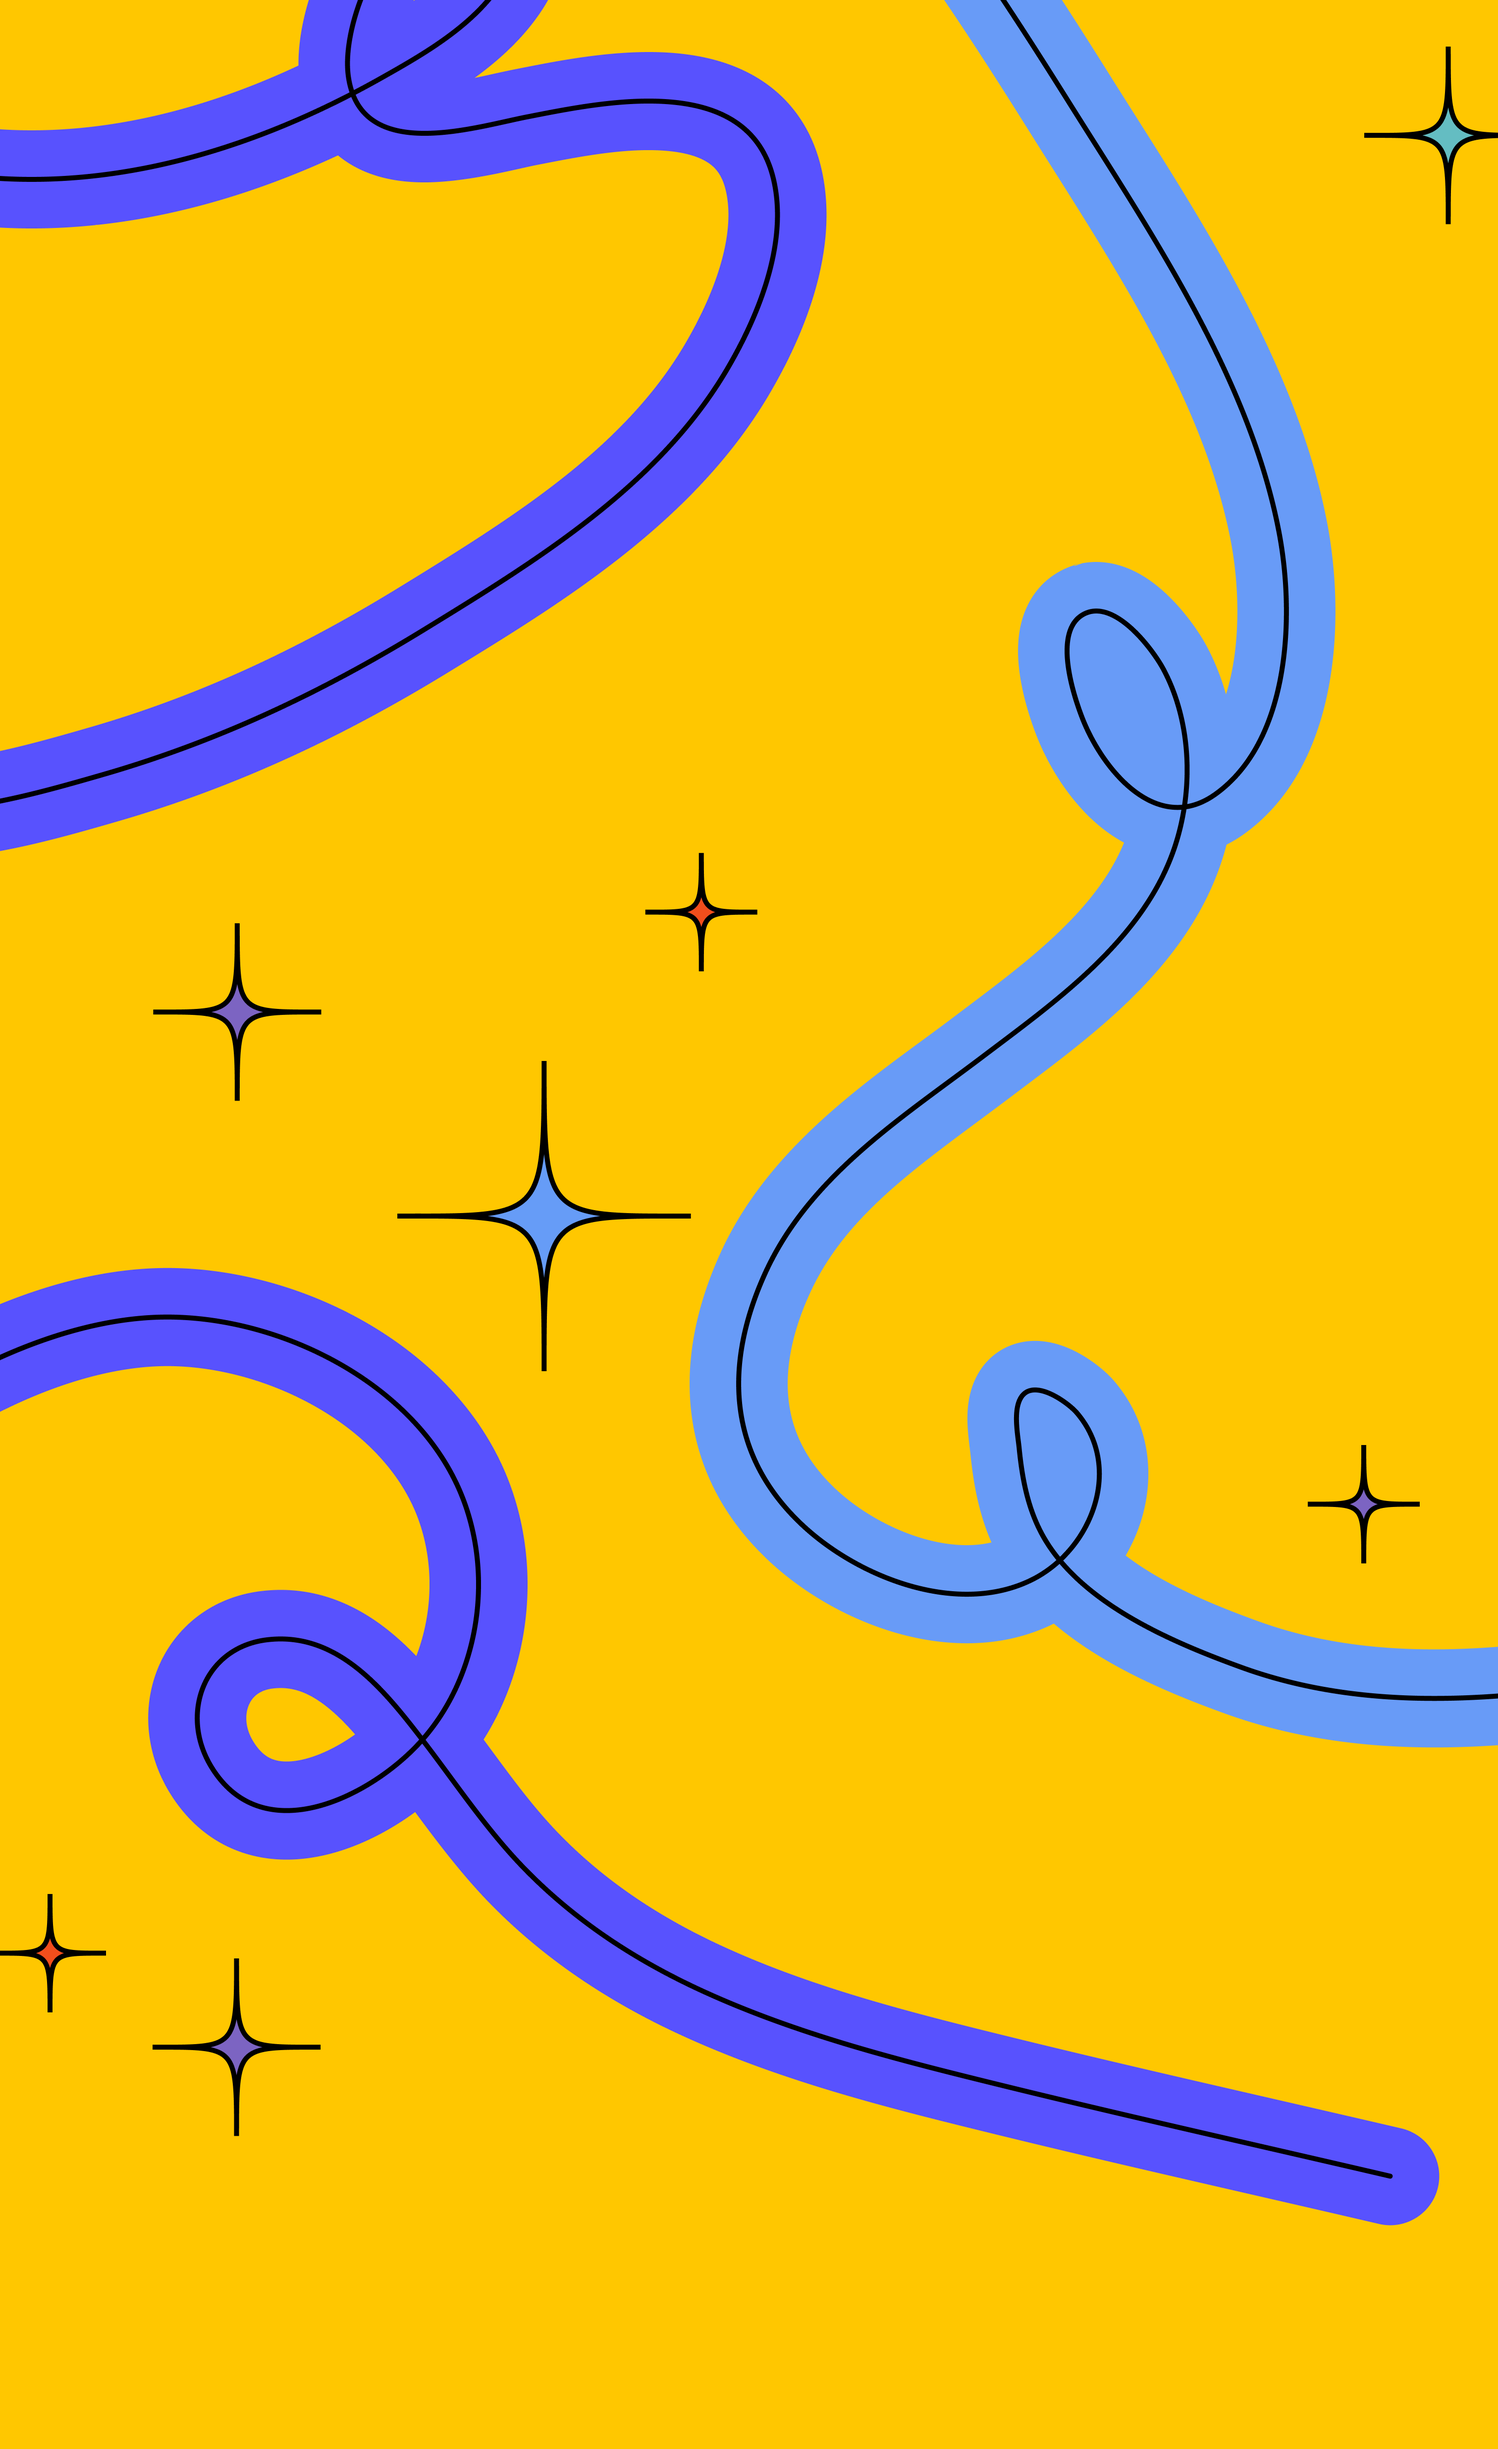
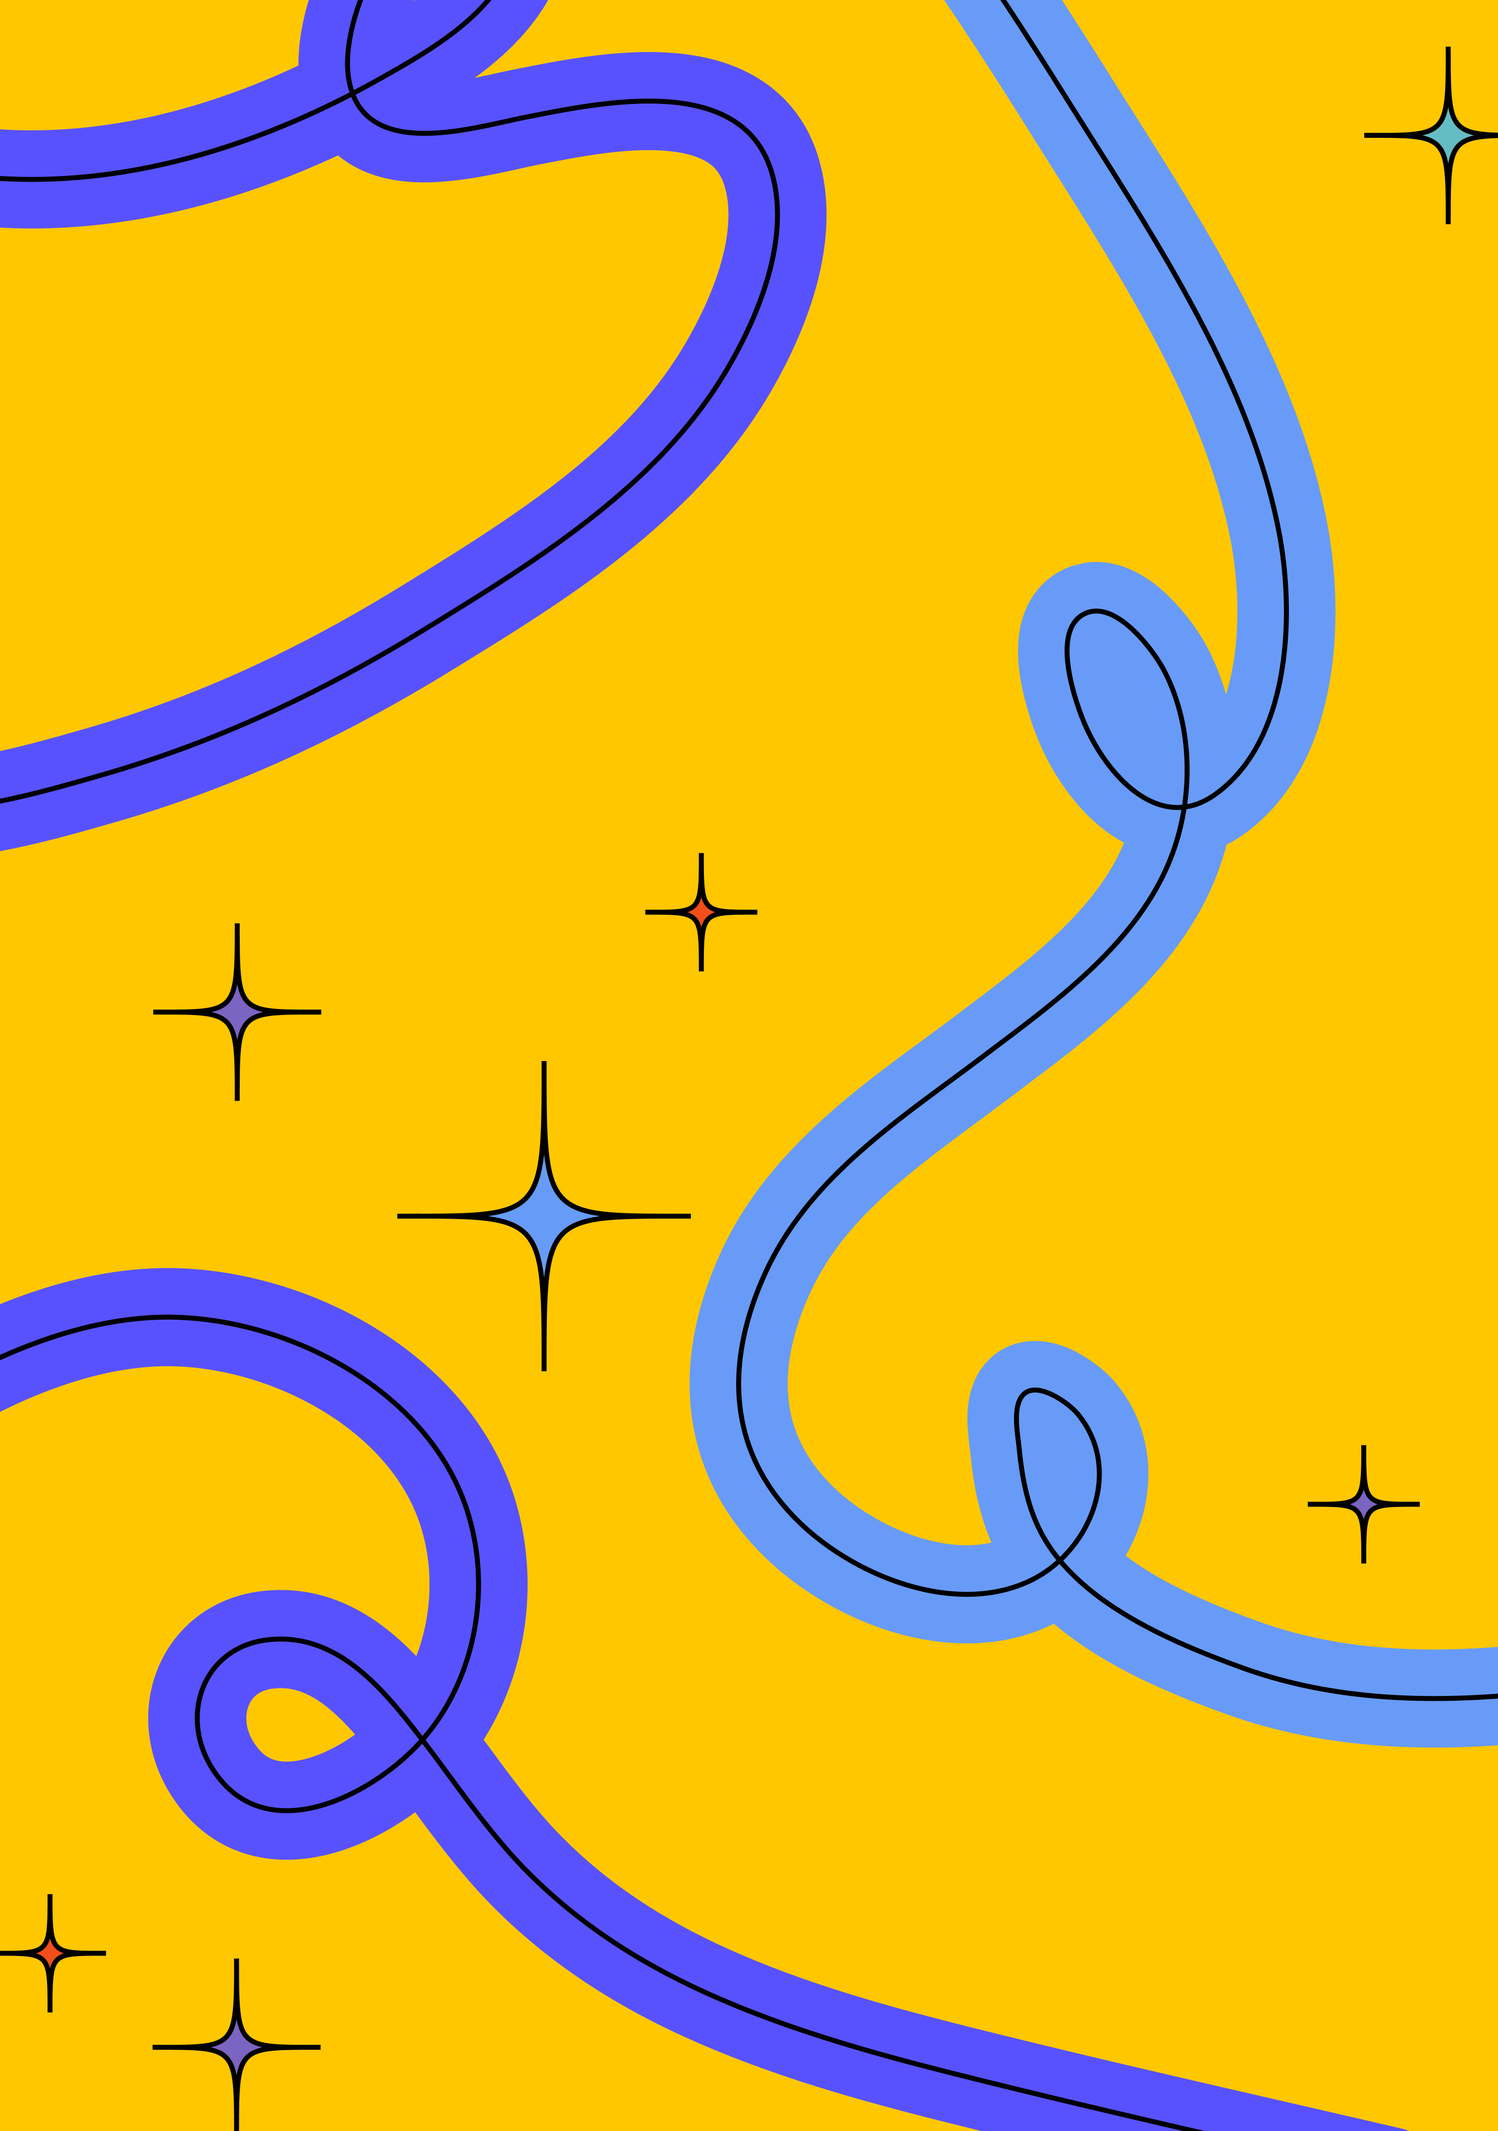
🌇 Add background

diff --git a/packages/frontend/pages/index.tsx b/packages/frontend/pages/index.tsx
@@ -1,13 +1,29 @@
 import type { NextPage } from "next";
-import { Box, Heading } from "@chakra-ui/react";
+import { Image, Box } from "@chakra-ui/react";
 import PageLayout from "../components/Layout/PageLayout";
 import Footer from "../components/Layout/Footer";
+import Card from "../components/Card";
 
 const Home: NextPage = () => {
   return (
     <PageLayout title={"geese, by minihacks"}>
-      <Box px={[5, 10]}>
-        <Heading as={"h1"}>geese</Heading>
+      <Box flexDirection={"column"} minH={"100vh"} display={"flex"}> 
+        <Box flex={"1"}>
+          <Image 
+            fit={"fill"}
+            src={"bg-marker.png"}
+            style={{
+              userSelect: "none",
+              position: "absolute",
+              zIndex: "1"
+            }}
+          />
+          <Image
+            fit={"fill"}
+            src={"bg-base.png"}
+            zIndex={"0"}
+          />
+        </Box>
       </Box>
       <Footer />
     </PageLayout>
